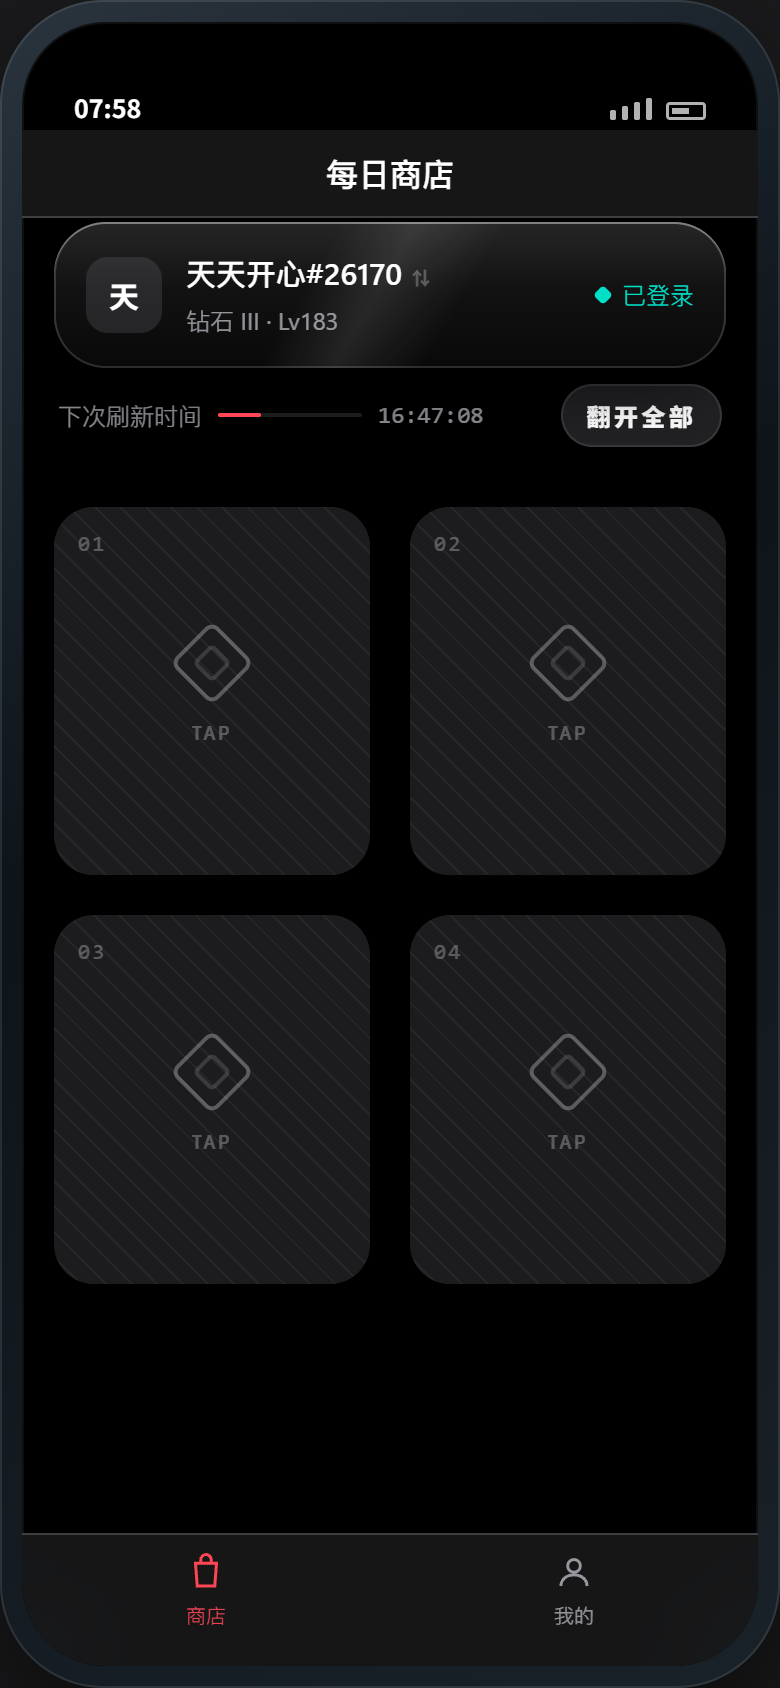
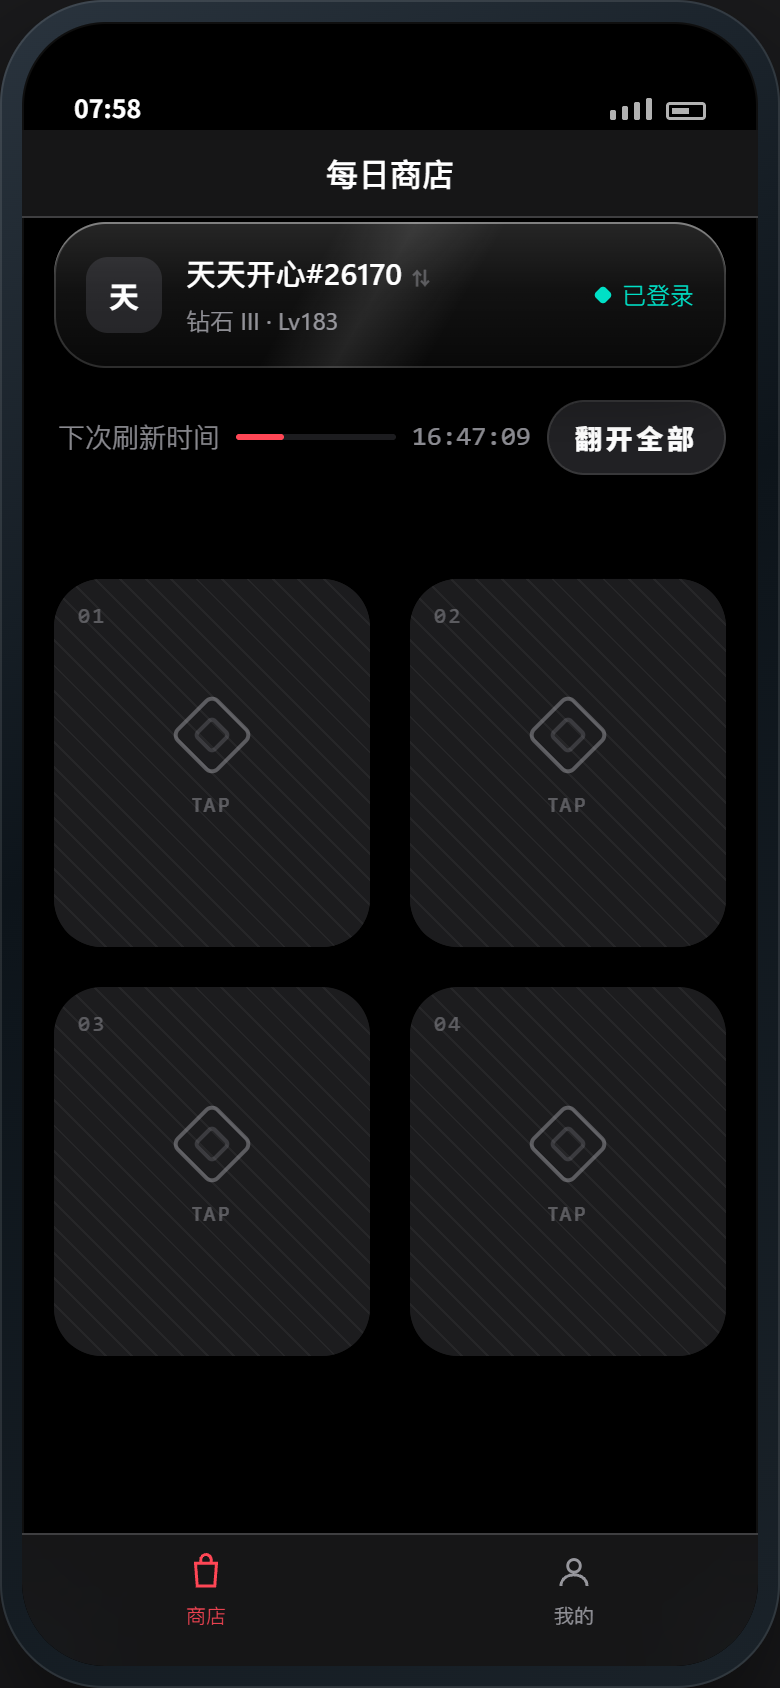
商店页：卡阵下移、卡片圆角 20 → 24；标题行整体放大
- 卡阵下移：标题行 padding-top 8 / bottom 52，四张卡整体往下，下沿留白收掉。
- 卡片圆角 radiusCard 20 → 24。细线/晕染的半径是从 cornerRadius 派生的，
  所以光贴的还是同一条边，不用另调。
- 标题行放大：标签 caption → footnote；倒计时 caption → footnote（带缩放下限）；
  「翻开全部」footnote → subheadline + controlSize(.regular)；
  引信条 72 → 80pt 宽、2 → 3pt 粗。
- 防挤压（这一行现在三段文字 + 进度条 + 按钮，容易换行）：
  按钮标签 lineLimit(1) + fixedSize、倒计时 minimumScaleFactor(0.8)、间距 10 → 8。
- 预览台同值（--r-card 24、head padding 8/52、17px 级字号对应 13.5px、fuse 80×3）。
- README 几何表更新：卡片 24 / 玻璃 26 / 引信条 80。
- design/shots 重出。

Changed region(s): [[0.0615, 0.2156, 0.9538, 0.6161], [0.5231, 0.6161, 0.9538, 0.8009], [0.0615, 0.6161, 0.4923, 0.8009]]

diff --git a/val-shop-ios/App/ShopView.swift b/val-shop-ios/App/ShopView.swift
@@ -192,7 +192,7 @@ struct ShopView: View {
     private var lineUpHeader: some View {
         HStack(spacing: 8) {
             Text("下次刷新时间")
-                .font(.caption)
+                .font(.footnote)
                 .foregroundStyle(.secondary)
                 .fixedSize()
 
@@ -214,16 +214,18 @@ struct ShopView: View {
                 flipAll()
             } label: {
                 Text("翻开全部")
-                    .font(.footnote)
+                    .font(.subheadline)
+                    .lineLimit(1)
+                    .fixedSize()          // 别让这一行被挤成两行
             }
             .buttonStyle(.glass)
-            .controlSize(.small)
+            .controlSize(.regular)
             .disabled(model.flipped.allSatisfy { $0 })
         }
         .padding(.horizontal, 2)
-        // 卡阵整体往下挪一点：原来这里下面还有一整条引信，现在引信挪进这一行了，
-        // 下边距补回那条的高度再多给一点
-        .padding(.bottom, 30)
+        .padding(.top, 8)          // 这一行整体往下一点点
+        // 卡阵跟着往下：原来那条整宽引信的高度，用标题行的下边距补回来再多给一点（下沿留白也收掉了）
+        .padding(.bottom, 52)
     }
 
     /// 倒计时走自己的一秒一拍 —— 只重绘这一小块
@@ -249,15 +251,15 @@ struct ShopView: View {
                 ZStack(alignment: .leading) {
                     Capsule()
                         .fill(Color(.quaternaryLabel))
-                        .frame(height: 2)
+                        .frame(height: 3)
 
                     Capsule()
                         .fill(Color.zwRouge)
-                        .frame(width: max(0, w * ratio), height: 2)
+                        .frame(width: max(0, w * ratio), height: 3)
                 }
-                .frame(height: 4, alignment: .center)
+                .frame(height: 5, alignment: .center)
             }
-            .frame(height: 4)
+            .frame(height: 5)
             .accessibilityElement()
             .accessibilityLabel("距离下次刷新的进度")
             .accessibilityValue("\(Int(ratio * 100))%")

diff --git a/val-shop-ios/design/preview.html b/val-shop-ios/design/preview.html
@@ -49,7 +49,7 @@
 
   /* ---- 圆角：分组容器 12 / 卡片 20 / 小控件 11 ---- */
   --r-group:12px;
-  --r-card:20px;
+  --r-card:24px;
   --r-control:11px;
   --r-glass:26px;
   --pad:16px;
@@ -187,22 +187,22 @@ body{
    ② 今日四张（分组内容：小标 + 引信条 + 卡阵 + 统计）
    ========================================================================== */
 .board{margin-top:8px}
-.board .head{display:flex;align-items:center;gap:8px;padding:0 2px 30px}
-.board .head .t{font-size:12px;color:var(--label-2);white-space:nowrap}
-.board .head .c{font-size:12px;color:var(--label-2)}
+.board .head{display:flex;align-items:center;gap:8px;padding:8px 2px 52px}
+.board .head .t{font-size:13.5px;color:var(--label-2);white-space:nowrap}
+.board .head .c{font-size:13.5px;color:var(--label-2)}
 .board .head .row{display:flex;align-items:center;gap:10px;margin-left:auto}
 
 /* 控件层的次级按钮：系统 .glass 样式 */
 .board .head .act{
-  margin-left:auto;
-  font-size:12px;color:var(--label);cursor:pointer;padding:6px 12px;border-radius:999px;
+  margin-left:auto;flex:0 0 auto;white-space:nowrap;
+  font-size:13.5px;color:var(--label);cursor:pointer;padding:8px 13px;border-radius:999px;
   background:rgba(120,120,128,.28);border:1px solid rgba(255,255,255,.10);
 }
 .board .head .act:disabled{opacity:.45}
 
 /* 引信条 */
-.fuse{position:relative;flex:0 0 72px;height:2px;border-radius:2px;background:var(--fill)}
-.fuse .fill{position:absolute;inset:0 auto 0 0;border-radius:2px;background:var(--rouge);transition:width .6s linear}
+.fuse{position:relative;flex:0 0 80px;height:3px;border-radius:3px;background:var(--fill)}
+.fuse .fill{position:absolute;inset:0 auto 0 0;border-radius:3px;background:var(--rouge);transition:width .6s linear}
 
 .slots{display:grid;grid-template-columns:1fr 1fr;gap:var(--gap);perspective:1100px}
 

diff --git a/val-shop-ios/App/DesignSystem.swift b/val-shop-ios/App/DesignSystem.swift
@@ -41,14 +41,14 @@ enum ZW {
     /// 卡片 / 分组容器圆角
     static let radiusGroup: CGFloat = 16
     /// 卡片圆角
-    static let radiusCard: CGFloat = 20
+    static let radiusCard: CGFloat = 24
     /// 小控件（头像 / 图标）
     static let radiusControl: CGFloat = 11
     /// 玻璃信息条（身份条）—— 玻璃块要更"圆"一点，这是 Liquid Glass 的观感
     static let radiusGlass: CGFloat = 26
 
     /// 引信条（下次刷新进度）：缩短后塞进标题行里，只占这么宽
-    static let fuseWidth: CGFloat = 72
+    static let fuseWidth: CGFloat = 80
 
     /// 发丝线
     static let hairline: CGFloat = 1

diff --git a/val-shop-ios/README.md b/val-shop-ios/README.md
@@ -335,7 +335,7 @@ Info.plist 里开了 `UIFileSharingEnabled` + `LSSupportsOpeningDocumentsInPlace
 | 品质五档 | `Rarity.colorHex` —— 服务端数据（掌瓦 `ic_val_goods_quality_1..5`），**不可改** |
 | 字号 | Dynamic Type 文本样式，见上表 |
 | 两处腔调 | 机器腔 `.system(style).weight(.heavy).width(.compressed)`（**只排拉丁小标**）；数据腔 `.system(style, design: .monospaced)` |
-| 几何 | 分组 16 / 卡片 20 / 小控件 11 / 发丝线 1 / 页边 16 / 块间距 12 / **卡阵间距 20**（`cardGap`，留地方给翻牌的外晕） |
+| 几何 | 分组 16 / 卡片 24 / 玻璃条 26 / 小控件 11 / 发丝线 1 / 页边 16 / 块间距 12 / **卡阵间距 20**（`cardGap`）/ 引信条宽 80（`fuseWidth`） |
 | 自绘形状 | `ZWDiamond`、`ZWHatchTexture` —— 附几何验算台 |
 
 ### 冷启动与图片缓存
